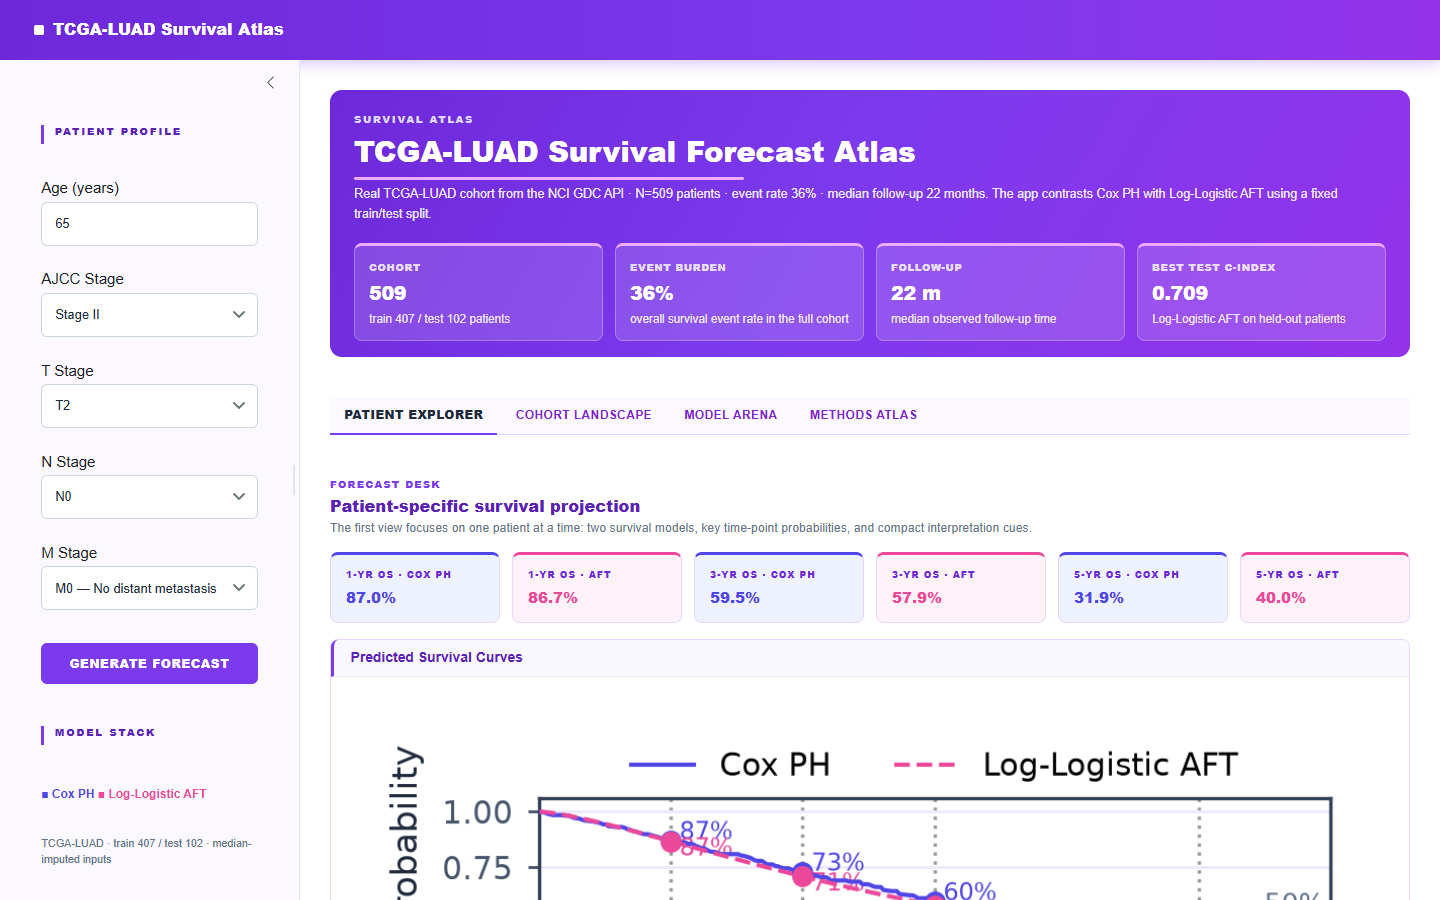
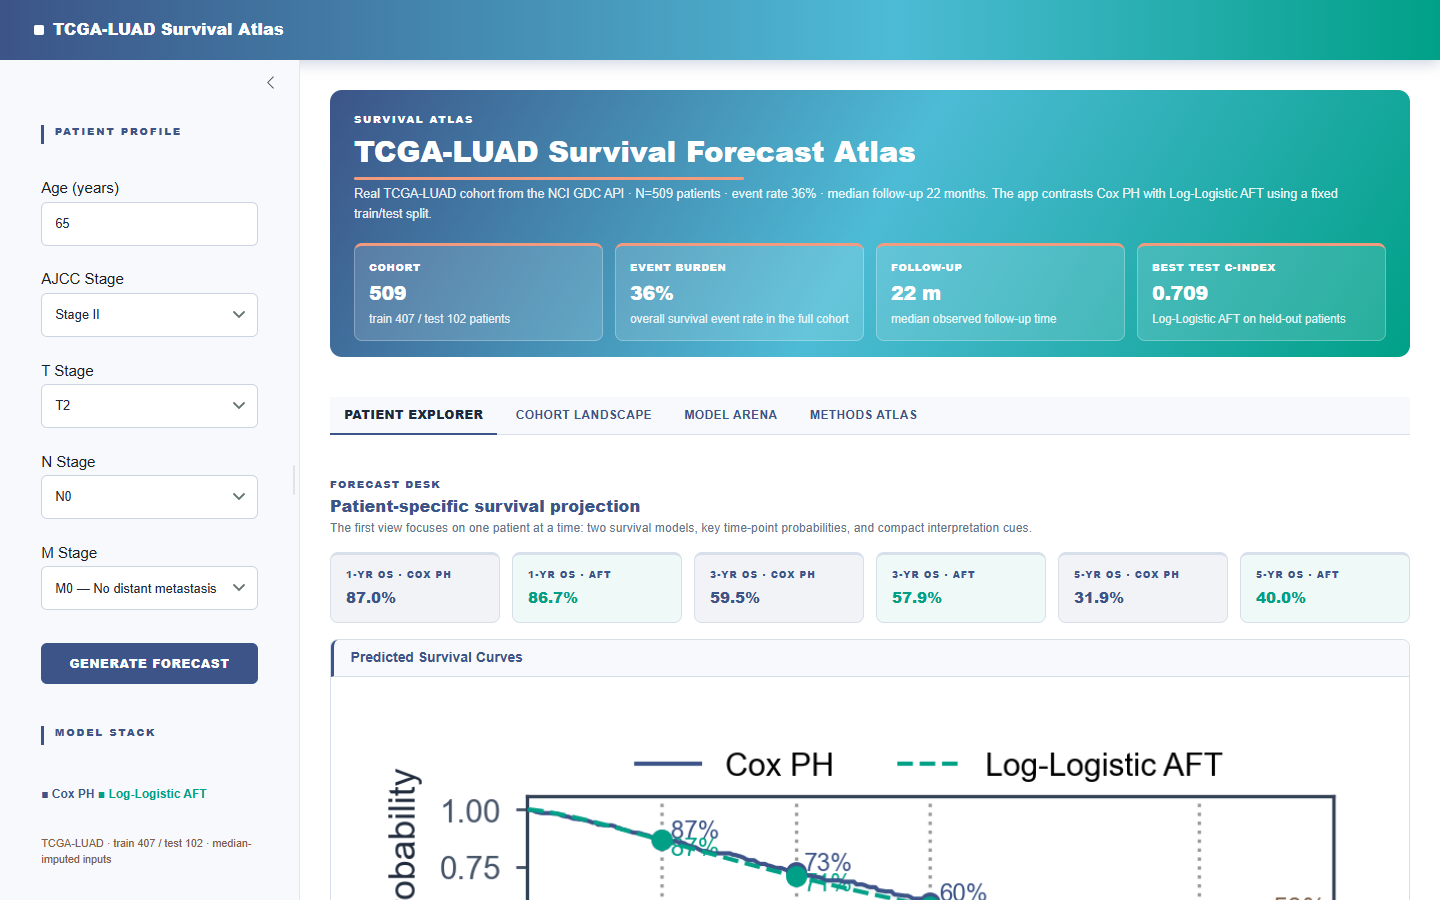
Refresh app color palette

diff --git a/survival_app.py b/survival_app.py
@@ -75,14 +75,14 @@ sc.apply_cell_matplotlib_style(**{
 })
 
 _COX_CLR = BRAND["navy"]
-_AFT_CLR = BRAND["orange"]
+_AFT_CLR = BRAND["green"]
 _MUTED   = BRAND["brown"]
 _INK_SV  = "#111111"     # reference rules / misc ink
 _AXIS_SV = "#334155"     # axis spines
 _TICK_SV = "#475569"     # tick marks / tick labels
 _LABEL_SV = "#1E293B"    # axis labels
-_GRID_SV = "#EDE9FE"     # subtle lavender gridlines
-_PANEL_SV = "#7C3AED"    # violet panel titles
+_GRID_SV = "#E2E8F0"     # neutral reference grid colour
+_PANEL_SV = BRAND["navy"]  # navy panel titles
 _REF_GRAY = "#999999"    # light reference rules inside figures
 
 # ── 1. GDC download & preprocessing ──────────────────────────────────────────
@@ -889,11 +889,11 @@ print("  Static figures rendered.", flush=True)
 _CSS = """
 
 :root{
-  --red:#E11D48;--blue:#06B6D4;--teal:#A855F7;--navy:#7C3AED;--salmon:#EC4899;
-  --lav:#A78BFA;--mint:#A78BFA;--crimson:#DC2626;--brown:#64748B;--tan:#F59E0B;
+  --red:#E64B35;--blue:#4DBBD5;--teal:#00A087;--navy:#3C5488;--salmon:#F39B7F;
+  --lav:#8491B4;--mint:#91D1C2;--crimson:#DC0000;--brown:#7E6148;--tan:#B09C85;
   --ink:#1E293B;--muted:#64748B;--surface:#FFFFFF;--white:#FFFFFF;--bg:#FFFFFF;
   --line:#E2E8F0;--line-strong:#CBD5E1;
-  --accent:#7C3AED;--accent-dark:#6D28D9;
+  --accent:#3C5488;--accent-dark:#3C5488;
   --r:8px;--r-sm:6px;
   --font:'Arial','Helvetica Neue',Helvetica,'Liberation Sans','DejaVu Sans',sans-serif;
   --serif:'Arial','Helvetica Neue',Helvetica,'Liberation Sans',sans-serif;
@@ -907,9 +907,9 @@ html,body{
   color:var(--ink);
   -webkit-font-smoothing:antialiased;
 }
-/* Masthead — journal style: white bar, hairline, purple rule */
+/* Masthead — Cell navy clinical theme. */
 .navbar{
-  background:linear-gradient(90deg,#6D28D9,#7C3AED 60%,#9333EA)!important;
+  background:linear-gradient(90deg,#3C5488,#4DBBD5 62%,#00A087)!important;
   border-bottom:none!important;
   box-shadow:0 4px 14px rgba(109,40,217,.25)!important;
   padding:.9rem 1.5rem;
@@ -979,7 +979,7 @@ html,body{
   border:1px solid var(--line-strong)!important;
   border-radius:var(--r-sm)!important;
   box-shadow:none!important;
-  background:linear-gradient(90deg,#6D28D9,#7C3AED 60%,#9333EA)!important;
+  background:var(--surface)!important;
   min-height:2.95rem;
   padding:.62rem .8rem;
   font-size:.86rem;
@@ -1217,7 +1217,7 @@ html,body{
 .result-frame.result-survival,.result-frame.result-dist{min-height:clamp(240px,20vw,340px);}
 /* Rich colour layer */
 .hero-banner{
-  background:linear-gradient(120deg,#6D28D9,#7C3AED 45%,#9333EA);
+  background:linear-gradient(120deg,#3C5488,#4DBBD5 50%,#00A087);
   border-radius:12px;
   padding:22px 24px 16px;
   margin-bottom:18px;
@@ -1273,6 +1273,72 @@ html,body{
 .tab-content{flex:1 1 auto;min-height:0;display:flex;flex-direction:column;}
 .tab-pane.active{flex:1 1 auto;min-height:0;display:flex!important;flex-direction:column;gap:0;}
 .tab-pane.active>*{flex-shrink:0;}
+
+/* Cell journal palette reset: lung cancer uses navy as the primary accent. */
+:root{
+  --red:#E64B35;--blue:#4DBBD5;--teal:#00A087;--navy:#3C5488;--salmon:#F39B7F;
+  --lav:#8491B4;--mint:#91D1C2;--crimson:#DC0000;--brown:#7E6148;--tan:#B09C85;
+  --accent:#3C5488;--accent-dark:#3C5488;--heading:#3C5488;
+  --accent-tint:#F7F9FC;--accent-soft:#EEF2F7;--accent-line:#D7DFEA;
+}
+.navbar{
+  background:linear-gradient(90deg,#3C5488,#4DBBD5 62%,#00A087)!important;
+  box-shadow:0 4px 14px rgba(60,84,136,.24)!important;
+}
+.bslib-sidebar-layout>.sidebar{background:var(--accent-tint)!important;}
+.sec,.form-label,.page-title,.card-header,.mc-label,.summary-label,
+.stage-kicker,.section-title,.note-title,.prob-tbl th,.mtbl th,
+.methods h4{color:var(--heading)!important;}
+.form-control:focus,.form-select:focus,
+.selectize-control.single .selectize-input.focus{
+  box-shadow:0 0 0 3px rgba(60,84,136,.16)!important;
+}
+.selectize-control.single .selectize-input{
+  background:var(--surface)!important;
+  color:var(--ink)!important;
+}
+.selectize-control .selectize-input .item{color:var(--heading)!important;}
+.btn-primary:hover{filter:brightness(.88);}
+.card{border-color:var(--accent-line)!important;}
+.card-header{
+  background:var(--accent-tint)!important;
+  border-bottom-color:var(--accent-line)!important;
+}
+.metric-chip,.summary-tile,.stage-tile,.responsive-figure img{
+  border-color:var(--accent-line);
+}
+.nav-tabs{
+  border-bottom-color:var(--accent-line)!important;
+  background:var(--accent-tint)!important;
+}
+.nav-tabs .nav-link{color:var(--heading)!important;}
+.nav-tabs .nav-link:hover{background:var(--accent-soft)!important;}
+.prob-tbl th,.mtbl th{background:var(--accent-tint);}
+.prob-tbl tr:hover td,.mtbl tr:hover td,.mtbl tr.best td{background:var(--accent-tint);}
+.figure-caption,.disclaimer{border-top-color:var(--accent-line);}
+.hero-banner{
+  background:linear-gradient(120deg,#3C5488,#4DBBD5 50%,#00A087)!important;
+}
+.hero-banner .hero-kicker,
+.hero-banner .page-title,
+.hero-banner .summary-label{color:#FFFFFF!important;}
+.hero-banner .summary-detail{color:rgba(255,255,255,.84)!important;}
+.hero-banner .page-title::after{background:#F39B7F;}
+.hero-banner .summary-tile{border-top-color:#F39B7F!important;}
+.chip,.metric-chip,.summary-tile{background:var(--tint,var(--accent-soft));}
+.stage-tile{background:var(--stint,var(--accent-soft));}
+.mc-cox,.prob-tbl td.cox{color:#3C5488!important;}
+.mc-aft,.prob-tbl td.aft{color:#00A087!important;}
+.summary-tile.accent-blue{--tile:#4DBBD5;--tint:#EFF8FA;--tile-ink:#3C5488;}
+.summary-tile.accent-teal{--tile:#00A087;--tint:#EFF9F7;--tile-ink:#00A087;}
+.summary-tile.accent-navy{--tile:#3C5488;--tint:#F1F3F7;--tile-ink:#3C5488;}
+.summary-tile.accent-salmon{--tile:#F39B7F;--tint:#FFF4F0;--tile-ink:#E64B35;}
+.summary-tile.accent-crimson{--tile:#DC0000;--tint:#FFF1F0;--tile-ink:#DC0000;}
+.stage-1{--stage:#4DBBD5;--stint:#EFF8FA;--stage-ink:#3C5488;}
+.stage-2{--stage:#3C5488;--stint:#F1F3F7;--stage-ink:#3C5488;}
+.stage-3{--stage:#00A087;--stint:#EFF9F7;--stage-ink:#00A087;}
+.stage-4{--stage:#F39B7F;--stint:#FFF4F0;--stage-ink:#E64B35;}
+.fig-no{color:var(--accent);}
 @media (max-width: 1100px){
   .summary-grid,.stage-grid,.note-grid{grid-template-columns:repeat(2,minmax(0,1fr));}
 }
@@ -1457,9 +1523,9 @@ app_ui = ui.page_sidebar(
                     ui.card_header("Reading the Curves"),
                     ui.tags.div(
                         ui.tags.p(
-                            "The solid indigo curve is the Cox PH projection; the "
-                            "dashed pink curve is the "
-                            f"{DIST['best']} AFT projection. The lavender band "
+                            "The solid navy curve is the Cox PH projection; the "
+                            "dashed teal curve is the "
+                            f"{DIST['best']} AFT projection. The pale blue-teal band "
                             "marks the agreement region between the two models, "
                             "and the dotted rules mark the 12 / 24 / 36 / 60 "
                             "month horizons.",
@@ -1797,11 +1863,11 @@ def server(input, output, session):
                                 np.interp(60.0,  _CURVE_T, s_aft)),
         ]:
             chips.append(
-                f'<div class="metric-chip" style="--tile:{_COX_CLR};--tint:#EEF2FF;">'
+                f'<div class="metric-chip" style="--tile:{_COX_CLR};--tint:#F1F3F7;">'
                 f'<span class="mc-label">{label} · Cox PH</span>'
                 f'<span class="mc-value mc-cox">{s_cox_value*100:.1f}%</span>'
                 f'</div>'
-                f'<div class="metric-chip" style="--tile:{_AFT_CLR};--tint:#FDF2F8;">'
+                f'<div class="metric-chip" style="--tile:{_AFT_CLR};--tint:#EFF9F7;">'
                 f'<span class="mc-label">{label} · AFT</span>'
                 f'<span class="mc-value mc-aft">{s_aft_value*100:.1f}%</span>'
                 f'</div>'
@@ -1962,7 +2028,7 @@ def server(input, output, session):
             return f"{v:.{decimals}f}" if isinstance(v, float) and not np.isnan(v) else "—"
 
         def _chip(label, train_v, test_v, clr, decimals=3):
-            _tint = "#EEF2FF" if clr == _COX_CLR else "#FDF2F8"
+            _tint = "#F1F3F7" if clr == _COX_CLR else "#EFF9F7"
             return (
                 f'<div class="metric-chip" style="--tile:{clr};--tint:{_tint};">'
                 f'<span class="mc-label">{label}</span>'
@@ -1977,7 +2043,7 @@ def server(input, output, session):
                   TR_COX.get("c_index", float("nan")), RES_COX["c_index"], _COX_CLR),
             _chip("Cox PH — IBS",
                   TR_COX.get("ibs", float("nan")), RES_COX["ibs"], _COX_CLR, 4),
-            f'<div class="metric-chip" style="--tile:{_COX_CLR};--tint:#EEF2FF;">'
+            f'<div class="metric-chip" style="--tile:{_COX_CLR};--tint:#F1F3F7;">'
             f'<span class="mc-label">Cox PH — mean AUC</span>'
             f'<span class="mc-value mc-cox">{_fmt(RES_COX["mean_auc"])}</span>'
             f'<span style="font-size:.60rem;color:{_MUTED};">test only</span>'
@@ -1986,7 +2052,7 @@ def server(input, output, session):
                   TR_AFT.get("c_index", float("nan")), RES_AFT["c_index"], _AFT_CLR),
             _chip("AFT — IBS",
                   TR_AFT.get("ibs", float("nan")), RES_AFT["ibs"], _AFT_CLR, 4),
-            f'<div class="metric-chip" style="--tile:{_AFT_CLR};--tint:#FDF2F8;">'
+            f'<div class="metric-chip" style="--tile:{_AFT_CLR};--tint:#EFF9F7;">'
             f'<span class="mc-label">AFT — mean AUC</span>'
             f'<span class="mc-value mc-aft">{_fmt(RES_AFT["mean_auc"])}</span>'
             f'<span style="font-size:.60rem;color:{_MUTED};">test only</span>'

diff --git a/survival_core.py b/survival_core.py
@@ -188,20 +188,20 @@ BRAND = dict(
     green=CELL_COLORS[2],
     navy=CELL_COLORS[3],
     orange=CELL_COLORS[4],
-    purple=CELL_COLORS[5],
+    lavender=CELL_COLORS[5],
     mint=CELL_COLORS[6],
     crimson=CELL_COLORS[7],
     brown=CELL_COLORS[8],
     tan=CELL_COLORS[9],
     light="white",
-    grid="#EDE9FE",
-    edge="#C4B5FD",
-    ink="#334155",
+    grid="#E2E8F0",
+    edge=CELL_COLORS[5],
+    ink=CELL_COLORS[3],
 )
 
 MODEL_COLORS = {
     "Cox PH":    BRAND["navy"],
-    "AFT":       BRAND["blue"],
+    "AFT":       BRAND["green"],
     "RSF":       BRAND["orange"],
     "DeepSurv":  BRAND["red"],
 }
